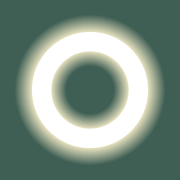
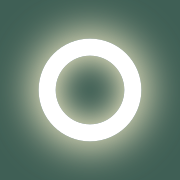
新デザイン：ロゴ「光の輪」の光のにじみを採用案と同じ作りに
- 外の光（広がり .06em・ぼかし .3em）と内の光（広がり .02em・ぼかし .22em）を採用案の CSS と同じ計算で SVG に
- 光が切れないようロゴの余白を広げ、上部バー・ログイン画面の表示の大きさを合わせた
- アプリのアイコンも作り直し、halo-design.css/js の読み込みを v=2 に

diff --git a/index.html b/index.html
@@ -1027,7 +1027,7 @@ body.tk-mving,body.tk-mving *{cursor:grabbing!important;user-select:none}
 <link rel="preconnect" href="https://fonts.gstatic.com" crossorigin>
 <link rel="stylesheet" href="https://fonts.googleapis.com/css2?family=Geist:wght@400;500;600;700;800&family=Noto+Sans+JP:wght@400;500;700&display=swap">
 <link rel="stylesheet" id="hn-tabler" href="https://cdn.jsdelivr.net/npm/@tabler/icons-webfont@3.19.0/dist/tabler-icons.min.css">
-<link rel="stylesheet" href="halo-design.css?v=1">
+<link rel="stylesheet" href="halo-design.css?v=2">
 </head>
 <body>
 <script>/* 新デザインを当てる。この端末だけ前の見た目に戻すときは localStorage の halo_old_design を '1' にする */try{if(localStorage.getItem('halo_old_design')!=='1')document.body.classList.add('hn')}catch(e){document.body.classList.add('hn')}</script>
@@ -12779,6 +12779,6 @@ async function initPushNotifications(opts) {
 })();
 </script>
 <script src="peer-memo.js"></script>
-<script src="halo-design.js?v=1"></script>
+<script src="halo-design.js?v=2"></script>
 </body>
 </html>

diff --git a/halo-design.css b/halo-design.css
@@ -31,7 +31,7 @@ body.hn.hn-ic-ok .hn-ic{display:inline-block;font-size:1.12em;line-height:1;vert
 body.hn.hn-ic-ok .hn-dot{display:inline-block;width:.62em;height:.62em;border-radius:50%;vertical-align:.02em}
 
 /* ---------- ロゴ「光の輪」（brand/*.svg。HAL＋太陽の光がにじむ輪） ---------- */
-.hn-logo img{display:block;height:1.8em;width:auto}
+.hn-logo img{display:block;height:2.2em;width:auto;margin:-.3em 0}
 
 /* ---------- 上部バー（緑・ロゴ） ---------- */
 body.hn .topbar{background:var(--primary);box-shadow:none;gap:12px}
@@ -196,5 +196,5 @@ body.hn [style*="border-left:4px solid #f57c00"]{border-left-color:var(--orange)
 body.hn #login-screen{background:linear-gradient(135deg,var(--hn-heroA),var(--hn-heroB))}
 body.hn .login-card{border-radius:24px}
 body.hn .login-logo .hn-logo{display:flex;justify-content:center;font-size:30px;margin-bottom:10px}
-body.hn .login-logo .hn-logo img{height:1.9em}
+body.hn .login-logo .hn-logo img{height:2.2em}
 body.hn .login-logo .icon{display:none}
